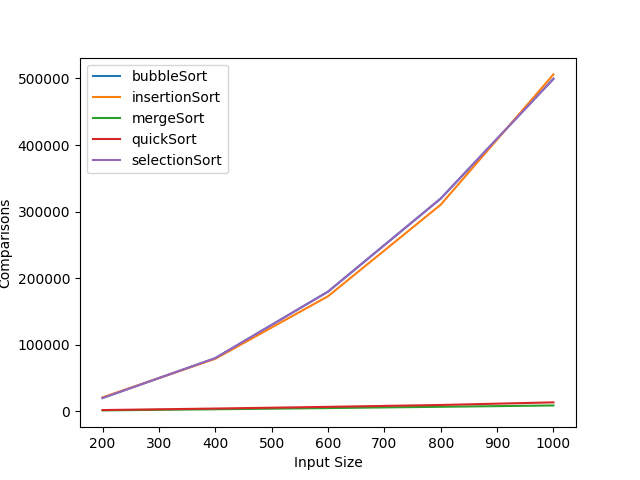
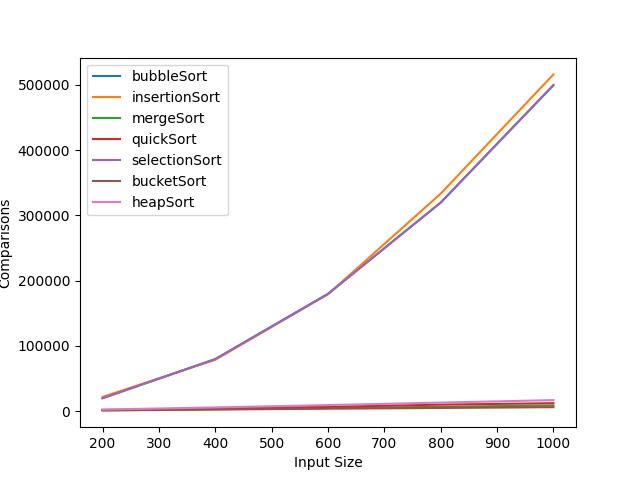
Heapsort and Bucketsort added

diff --git a/Cpp/SortingAlgos/heapSort.h b/Cpp/SortingAlgos/heapSort.h
@@ -1,0 +1,69 @@
+// Heap Sort Algorithm
+#include <vector>
+#include <iostream>
+
+using namespace std;
+
+class BinHeap {
+    public:
+    vector<int> heapList;
+    int currentSize;
+    CppAnalyser* analyser;
+
+    BinHeap(CppAnalyser& cppAnalyser) {
+        currentSize = 0;
+        analyser = &cppAnalyser;
+    }
+
+    void buildHeap(vector<int>& array) {
+        int i = array.size() / 2;
+        currentSize = array.size();
+        heapList = array;
+        heapList.insert(heapList.begin(), 0);
+        while(i > 0) {
+            percDown(i);
+            i--;
+        }
+    }
+
+    void percDown(int i) {
+        while((i * 2) <= currentSize) {
+            int mc = maxChild(i);
+
+            if(analyser->comparelt(heapList[i], heapList[mc])) {
+                analyser->swap(heapList[i], heapList[mc]);
+            }
+            i = mc;
+        }
+    }
+
+    int maxChild(int i) {
+        if(i * 2 + 1 > currentSize) return i * 2;
+        else {
+            if(analyser->comparegt(heapList[i*2], heapList[i*2 + 1])) return i*2;
+            else return i*2 + 1;
+        }
+    }
+};
+
+void heapSort(int numElements, vector<int>& array, CppAnalyser &analyser) {
+    analyser.startTimer();
+    analyser.trackSpace(array);
+
+    BinHeap binHeap = BinHeap(analyser);
+    binHeap.buildHeap(array);
+
+    int n = array.size();
+    for(int i = n - 1; i>=0; i--) {
+        analyser.iterate();
+        swap(binHeap.heapList[0 + 1], binHeap.heapList[i + 1]);
+        binHeap.currentSize--;
+        binHeap.percDown(0+1);
+    }
+
+    for(int i = 0; i<(int)array.size(); i++) {
+        array[i] = binHeap.heapList[i+1];
+    }
+
+    analyser.endTimer();
+}

diff --git a/Cpp/cppSorter.cpp b/Cpp/cppSorter.cpp
@@ -10,6 +10,8 @@
 #include "SortingAlgos/mergeSort.h"
 #include "SortingAlgos/quickSort.h"
 #include "SortingAlgos/selectionSort.h"
+#include "SortingAlgos/bucketSort.h"
+#include "SortingAlgos/heapSort.h"
 
 using namespace std;
 
@@ -22,7 +24,9 @@ map<string, function<void(int numElements, vector<int>& array, CppAnalyser& anal
     { "insertionSort", insertionSort },
     { "mergeSort", mergeSort },
     { "quickSort", quickSort },
-    { "selectionSort", selectionSort }
+    { "selectionSort", selectionSort },
+    { "bucketSort", bucketSort },
+    { "heapSort", heapSort }
 };
 
 vector<int> readArray() {
@@ -66,12 +70,7 @@ void runAnalysis(string sortingFunction) {
     // cout<<"      Array after sorting: ";
     // for(auto i: array) cout<<i<<" ";
     // cout<<endl;
-
-    // Write data to file
-    // filesystem::path filePath ("SortingAlgos");
-    // filePath /= "data";
-    // filePath /= sortingFunction + ".txt";
-    // cout<<filePath.filename()<<endl;
+    
     analyser.dump("SortingAlgos/data/" + sortingFunction + ".txt");
 }
 

diff --git a/Cpp/SortingAlgos/bucketSort.h b/Cpp/SortingAlgos/bucketSort.h
@@ -1,0 +1,32 @@
+// Bucket Sort Algorithm
+#include <vector>
+#include <iostream>
+
+using namespace std;
+
+void bucketSort(int numElements, vector<int>& array, CppAnalyser &analyser) {
+    analyser.startTimer();
+    analyser.trackSpace(array);
+
+    int NUM_BUCKETS = numElements/10;
+    vector<vector<int>> buckets(NUM_BUCKETS, vector<int>());
+
+    int max = *max_element(array.begin(), array.end());
+    for(auto num: array) {
+        analyser.iterate();
+        int index = (NUM_BUCKETS * num) /(double) (max + 1);
+        buckets[index].push_back(num);
+    }
+
+    int ptr = 0;
+    for(auto bucket: buckets) {
+        insertionSort(bucket.size(), bucket, analyser);
+        for(auto num: bucket) {
+            array[ptr] = num;
+            ptr++;
+        }
+        analyser.trackSpace(bucket);
+    }
+
+    analyser.endTimer();
+}

diff --git a/sortAnalyser.py b/sortAnalyser.py
@@ -7,7 +7,7 @@ LANGS = {
     "Python" : "python pySorter.py {0}"
 }
 
-ALGORITHMS = ["bubbleSort", "insertionSort", "mergeSort", "quickSort", "selectionSort"]
+ALGORITHMS = ["bubbleSort", "insertionSort", "mergeSort", "quickSort", "selectionSort", "bucketSort", "heapSort"]
 
 INPUT_SIZES = [i for i in range(200, 1001, 200)]
 

diff --git a/Cpp/cppAnalyser.cpp b/Cpp/cppAnalyser.cpp
@@ -28,6 +28,7 @@ class CppAnalyser {
 
         // Starts timer (Called at beginning of sort)
         void startTimer() {
+            if(start) return;
             start = clock();
         }
 
